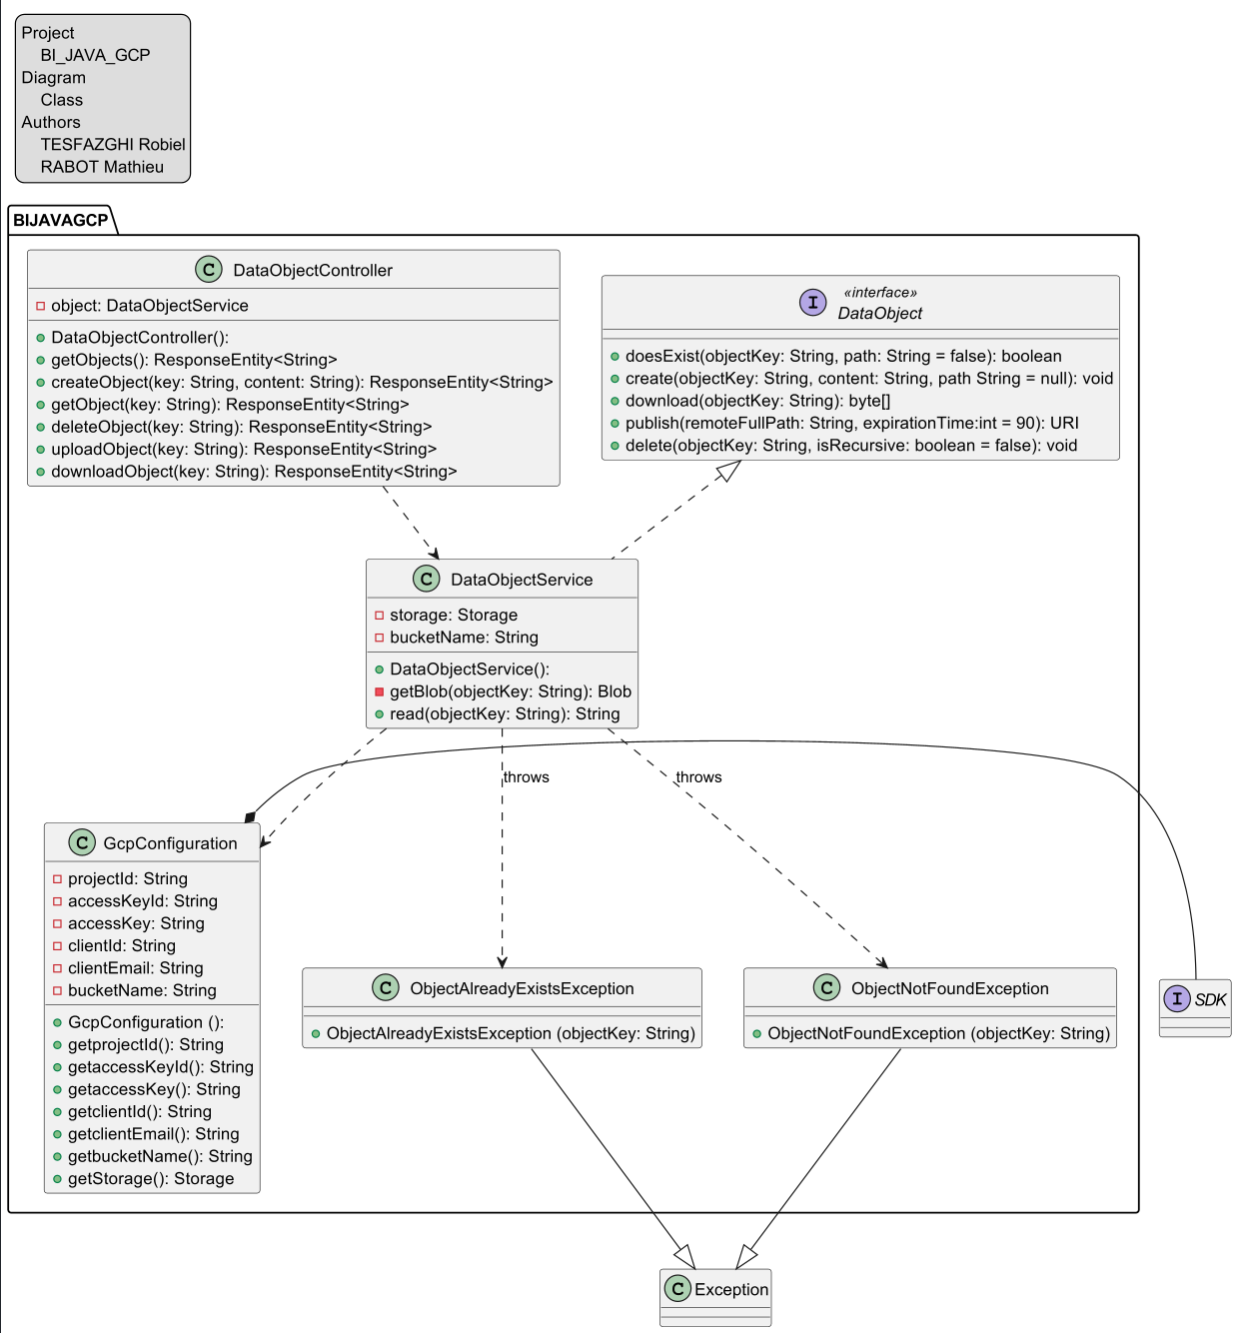
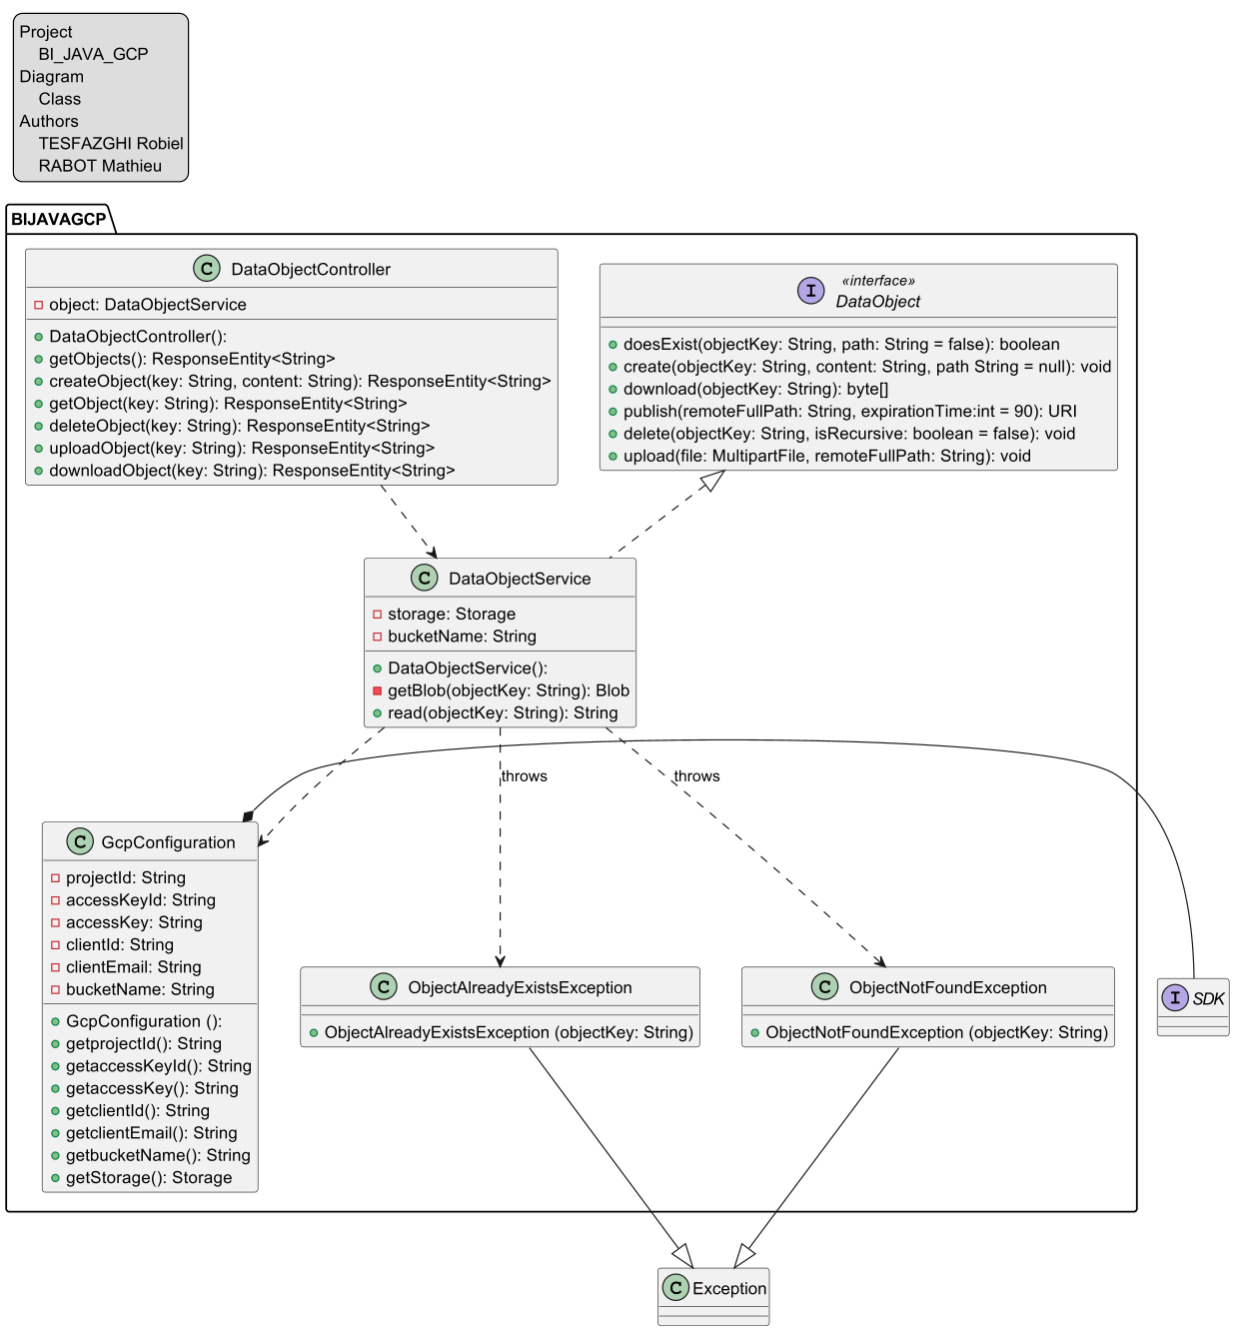
Update class diagram

diff --git a/src/main/java/com/cpnv/bijavagcp/services/DataObject.java b/src/main/java/com/cpnv/bijavagcp/services/DataObject.java
@@ -1,7 +1,7 @@
 package com.cpnv.bijavagcp.services;
 
 import com.cpnv.bijavagcp.exceptions.ObjectAlreadyExistsException;
-import com.cpnv.bijavagcp.exceptions.ObjectNotFoundException;
+import com.cpnv.bijavagcp.exceptions.ObjectNotFoundException;import org.springframework.web.multipart.MultipartFile;
 
 import java.net.URI;
 
@@ -20,6 +20,8 @@ public interface DataObject {
     void delete(String objectKey, boolean isRecursive) throws ObjectNotFoundException;
 
     byte[] download(String objectKey) throws ObjectNotFoundException;
+
+    void upload(MultipartFile file, String remoteFullPath) throws ObjectAlreadyExistsException;
 
     URI publish(String remoteFullPath) throws ObjectNotFoundException;
 
